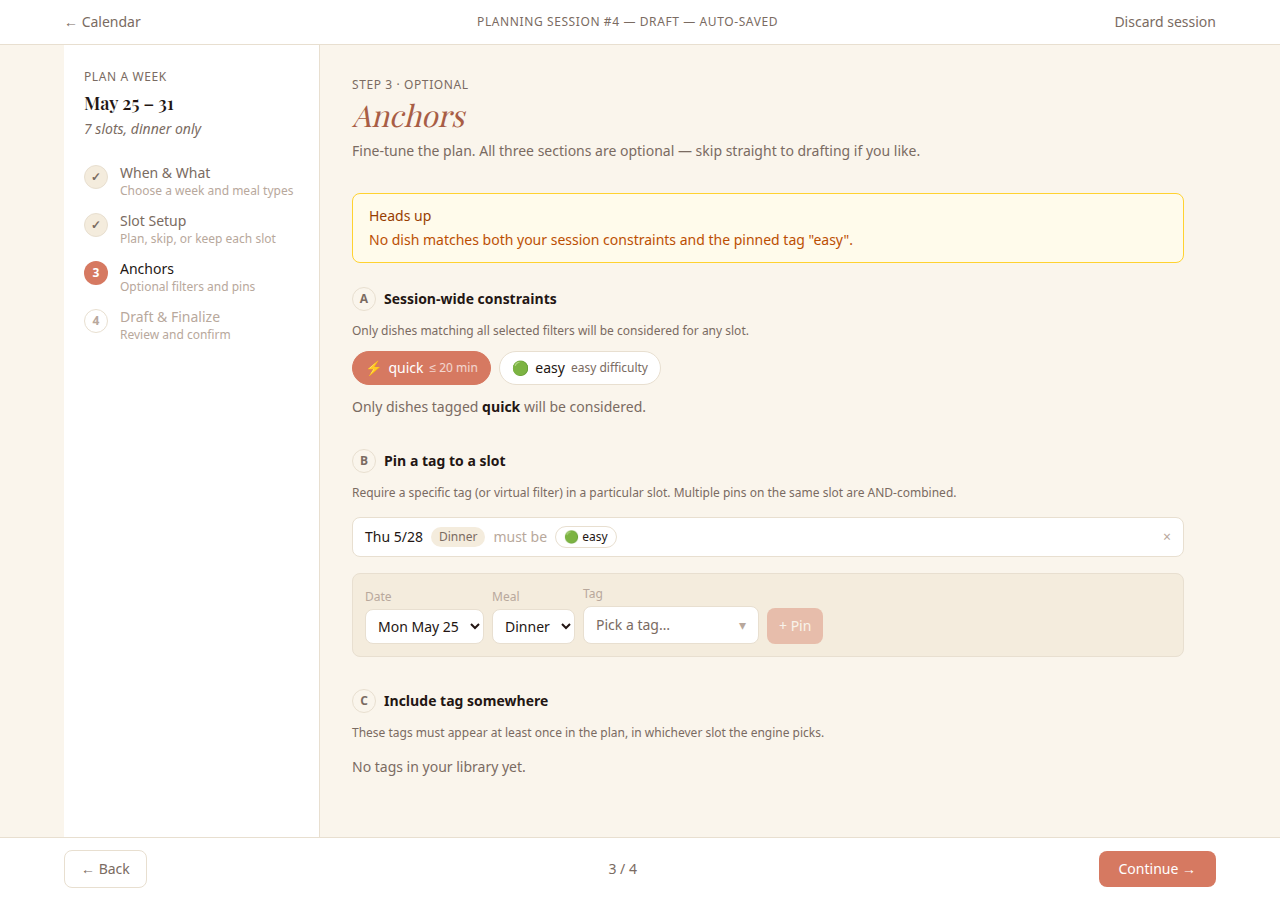
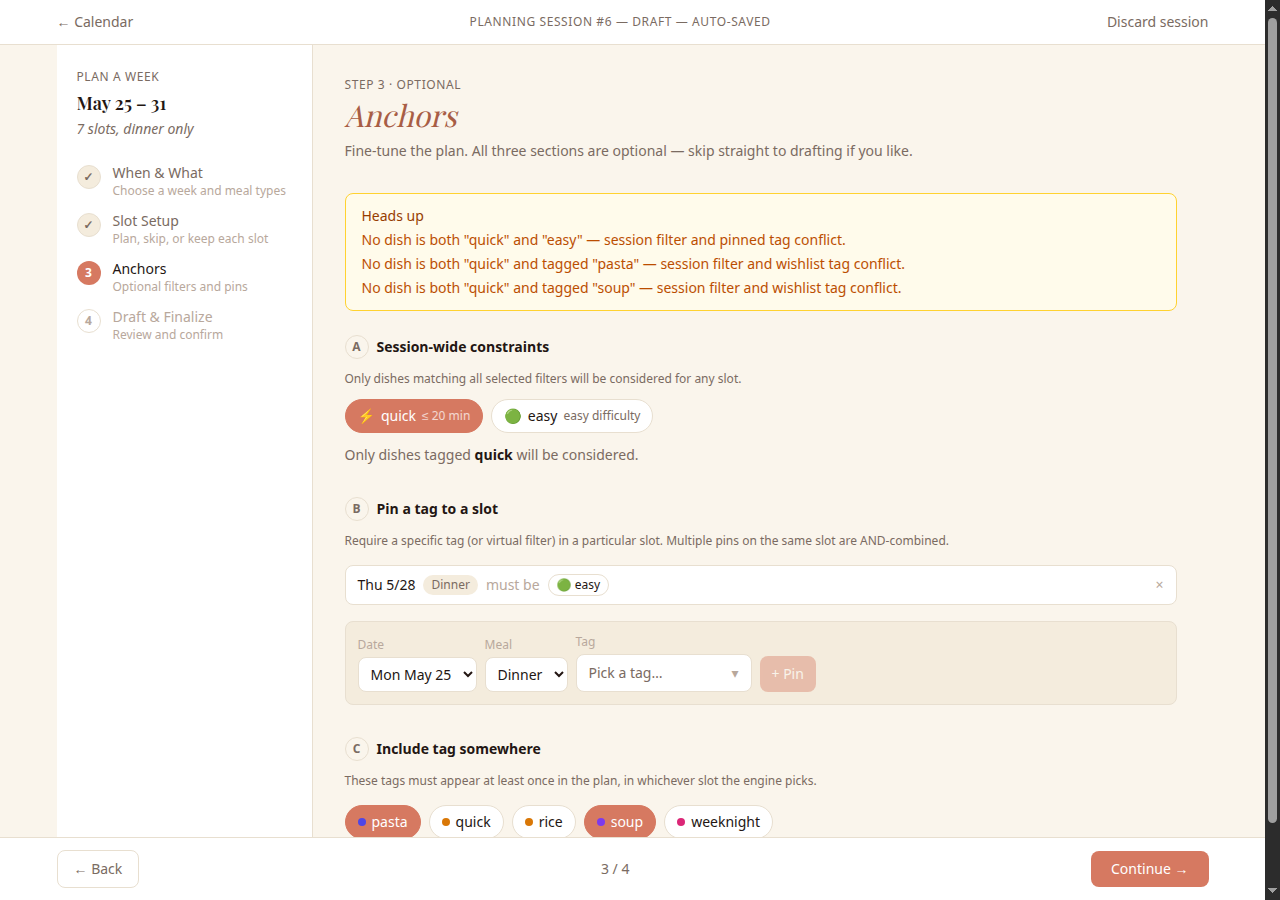
fix: clarify conflict warning messages and fix tag name lookup
- Warning now names both the session constraint and the conflicting tag
  (e.g. "No dish is both 'quick' and 'easy'…") so the source of each
  conflict is unambiguous
- Pass allTags to detectAnchorConflicts so wishlist/pin tag names resolve
  correctly even when no dishes carry those tags yet

diff --git a/shared/utils/anchorConflicts.ts b/shared/utils/anchorConflicts.ts
@@ -1,4 +1,5 @@
 import type { Dish } from '../types/dish'
+import type { Tag } from '../types/tag'
 import type { PinnedTag } from '../types/planningSession'
 import { matchesVirtualTag, matchesTag, getVirtualTag } from '../virtualTags'
 
@@ -7,6 +8,7 @@ export interface AnchorConflictInput {
   pinnedTags: PinnedTag[]
   wishlistTagIds: number[]
   dishes: Dish[]
+  allTags?: Tag[]
 }
 
 /**
@@ -18,12 +20,22 @@ export function detectAnchorConflicts({
   pinnedTags,
   wishlistTagIds,
   dishes,
+  allTags = [],
 }: AnchorConflictInput): string[] {
   if (sessionVirtualTagIds.length === 0) return []
 
   const activeDishes = dishes.filter((d) =>
     sessionVirtualTagIds.every((id) => matchesVirtualTag(d, id)),
   )
+
+  // Build a tag lookup from allTags (authoritative) + any tags on dishes
+  const tagById = new Map<number, string>()
+  for (const t of allTags) tagById.set(t.id, t.name)
+  for (const d of dishes) for (const t of d.tags) if (!tagById.has(t.id)) tagById.set(t.id, t.name)
+
+  const constraintLabel = sessionVirtualTagIds
+    .map((id) => getVirtualTag(id)?.label ?? id)
+    .join(' + ')
 
   const warnings: string[] = []
   const warned = new Set<string>()
@@ -44,11 +56,9 @@ export function detectAnchorConflicts({
       matchesTag(d, { kind: 'real', tagId }),
     )
     if (!hasMatch) {
-      const tagName = dishes
-        .flatMap((d) => d.tags)
-        .find((t) => t.id === tagId)?.name ?? `tag #${tagId}`
+      const tagName = tagById.get(tagId) ?? `tag #${tagId}`
       warnings.push(
-        `No dish matches both your session constraints and the pinned tag "${tagName}".`,
+        `No dish is both "${constraintLabel}" and tagged "${tagName}" — session filter and pinned tag conflict.`,
       )
       warned.add(key)
     }
@@ -70,9 +80,9 @@ export function detectAnchorConflicts({
       matchesTag(d, { kind: 'virtual', id: virtualId }),
     )
     if (!hasMatch) {
-      const tagLabel = getVirtualTag(virtualId)?.label ?? virtualId
+      const pinLabel = getVirtualTag(virtualId)?.label ?? virtualId
       warnings.push(
-        `No dish matches both your session constraints and the pinned tag "${tagLabel}".`,
+        `No dish is both "${constraintLabel}" and "${pinLabel}" — session filter and pinned tag conflict.`,
       )
       warned.add(key)
     }
@@ -86,11 +96,9 @@ export function detectAnchorConflicts({
       matchesTag(d, { kind: 'real', tagId }),
     )
     if (!hasMatch) {
-      const tagName = dishes
-        .flatMap((d) => d.tags)
-        .find((t) => t.id === tagId)?.name ?? `tag #${tagId}`
+      const tagName = tagById.get(tagId) ?? `tag #${tagId}`
       warnings.push(
-        `No dish matches both your session constraints and the wishlist tag "${tagName}".`,
+        `No dish is both "${constraintLabel}" and tagged "${tagName}" — session filter and wishlist tag conflict.`,
       )
       warned.add(key)
     }

diff --git a/app/components/WizardStep3.vue b/app/components/WizardStep3.vue
@@ -222,6 +222,7 @@ const conflicts = computed(() => {
     pinnedTags: localPinnedTags.value,
     wishlistTagIds: localWishlistTags.value,
     dishes: allDishes.value,
+    allTags: allTags.value ?? [],
   })
 })
 
